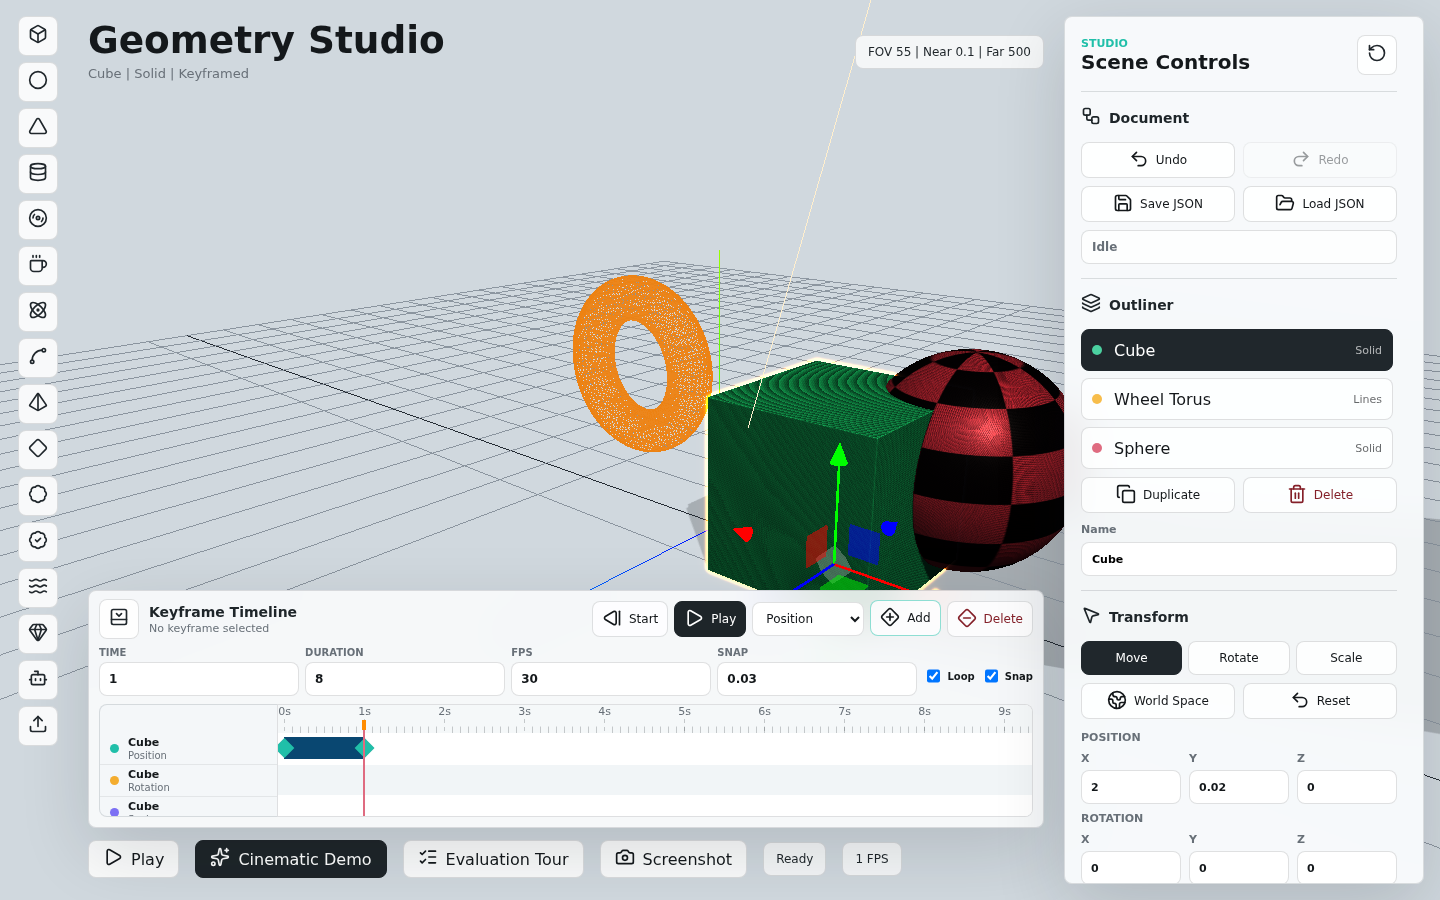
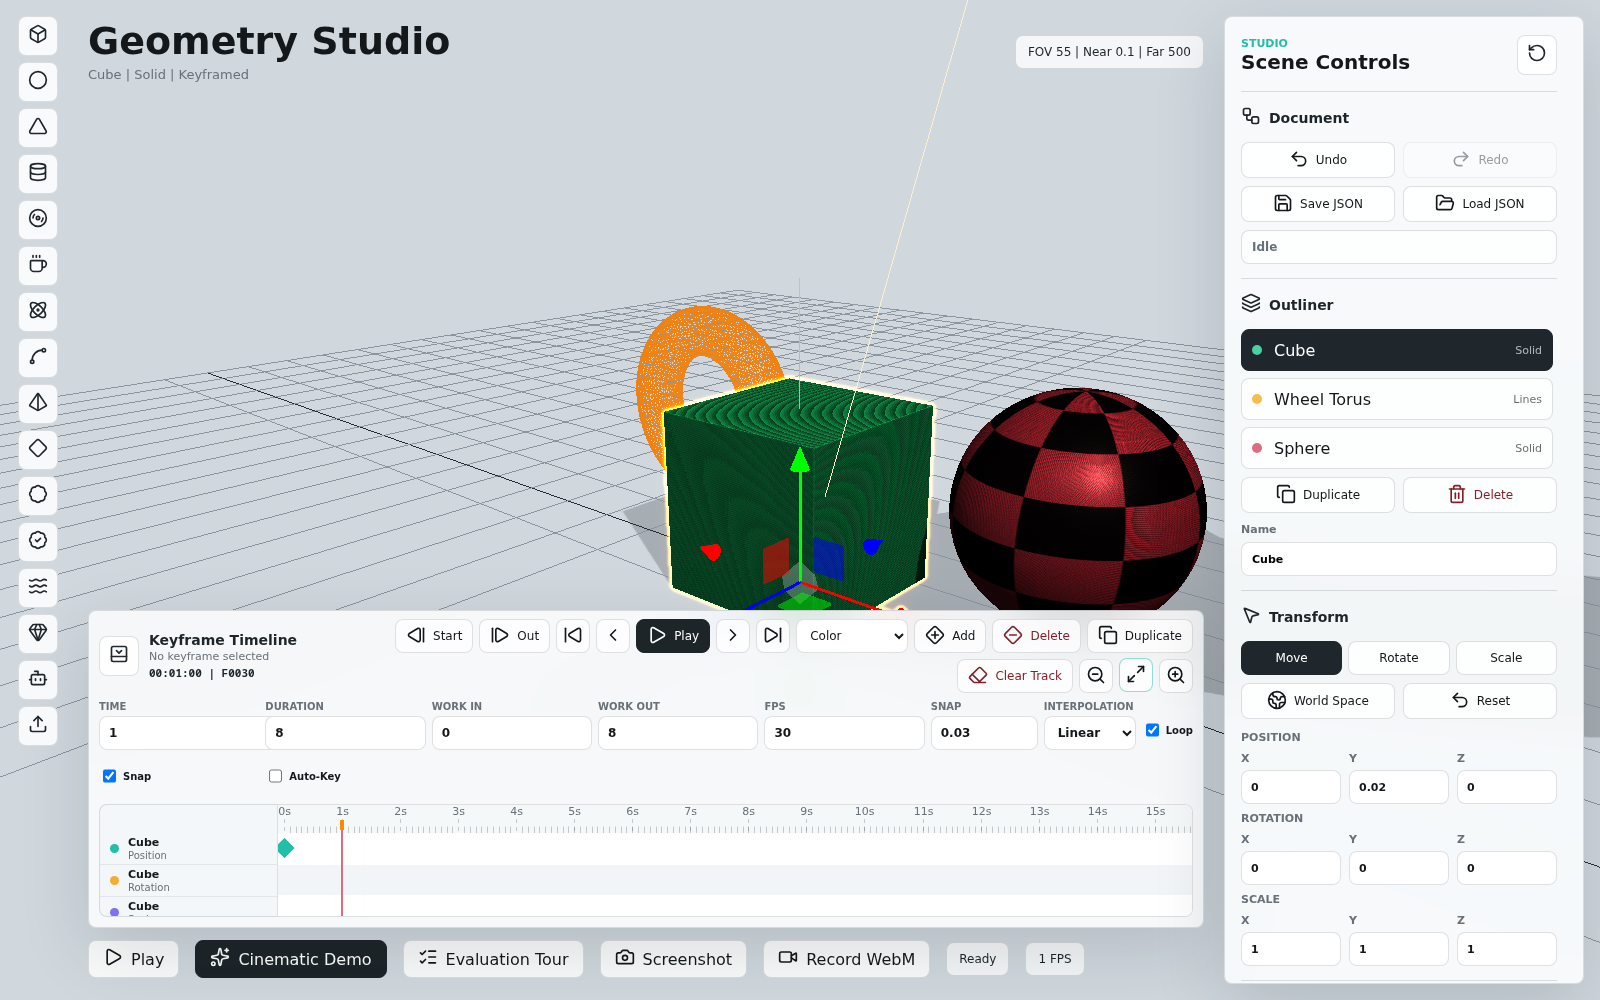
Add frame navigation timeline controls

diff --git a/Source/src/ui/timelinePanel.ts b/Source/src/ui/timelinePanel.ts
@@ -17,6 +17,7 @@ export interface KeyframeTimelineCallbacks {
   onDuplicateKeyframes(keyframeIds: string[]): void;
   onClearTrack(kind: TimelineTrackKind): void;
   onStepKeyframe(direction: -1 | 1): void;
+  onStepFrame(direction: -1 | 1): void;
   onSetInterpolation(keyframeIds: string[], interpolation: TimelineInterpolation): void;
   onDragStarted(): void;
   onKeyframeMoved(keyframeId: string, time: number): void;
@@ -135,7 +136,8 @@ export class KeyframeTimelinePanel {
   private readonly loopInput = query<HTMLInputElement>("#timeline-loop");
   private readonly snapStepInput = query<HTMLInputElement>("#timeline-snap-step");
   private readonly interpolationSelect = query<HTMLSelectElement>("#timeline-interpolation");
-  private readonly selectionLabel = query<HTMLDivElement>("#timeline-selection");
+  private readonly selectionLabel = query<HTMLSpanElement>("#timeline-selection");
+  private readonly timecodeLabel = query<HTMLSpanElement>("#timeline-timecode");
   private selectedKeyframeIds = new Set<string>();
   private updating = false;
 
@@ -178,6 +180,7 @@ export class KeyframeTimelinePanel {
     this.playButton.innerHTML = `<span data-icon="${playing ? "Pause" : "Play"}"></span><span>${playing ? "Pause" : "Play"}</span>`;
     hydrateIcons(this.playButton);
     this.timeInput.value = formatNumber(timelineDocument.currentTime);
+    this.timecodeLabel.textContent = formatTimecode(timelineDocument.currentTime, timelineDocument.fps);
     this.durationInput.value = formatNumber(timelineDocument.duration);
     this.workStartInput.value = formatNumber(timelineDocument.workStart);
     this.workEndInput.value = formatNumber(timelineDocument.workEnd);
@@ -214,6 +217,7 @@ export class KeyframeTimelinePanel {
     this.playButton.innerHTML = `<span data-icon="${playing ? "Pause" : "Play"}"></span><span>${playing ? "Pause" : "Play"}</span>`;
     hydrateIcons(this.playButton);
     this.timeInput.value = formatNumber(timelineDocument.currentTime);
+    this.timecodeLabel.textContent = formatTimecode(timelineDocument.currentTime, timelineDocument.fps);
     this.timeline.setTime(timelineDocument.currentTime);
     this.updating = false;
   }
@@ -234,12 +238,15 @@ export class KeyframeTimelinePanel {
     query<HTMLButtonElement>("#timeline-clear-track").addEventListener("click", () => {
       this.callbacks.onClearTrack(this.selectedTrackKind());
     });
+    query<HTMLButtonElement>("#timeline-prev-frame").addEventListener("click", () => this.callbacks.onStepFrame(-1));
+    query<HTMLButtonElement>("#timeline-next-frame").addEventListener("click", () => this.callbacks.onStepFrame(1));
     query<HTMLButtonElement>("#timeline-prev-keyframe").addEventListener("click", () => this.callbacks.onStepKeyframe(-1));
     query<HTMLButtonElement>("#timeline-next-keyframe").addEventListener("click", () => this.callbacks.onStepKeyframe(1));
     query<HTMLButtonElement>("#timeline-zoom-out").addEventListener("click", () => this.timeline.zoomOut(0.25));
     query<HTMLButtonElement>("#timeline-zoom-in").addEventListener("click", () => this.timeline.zoomIn(0.25));
     query<HTMLButtonElement>("#timeline-zoom-fit").addEventListener("click", () => this.fitTimeline());
     query<HTMLButtonElement>("#timeline-start").addEventListener("click", () => this.callbacks.onTimeChanged(Number(this.workStartInput.value)));
+    query<HTMLButtonElement>("#timeline-end").addEventListener("click", () => this.callbacks.onTimeChanged(Number(this.workEndInput.value)));
     this.playButton.addEventListener("click", () => this.callbacks.onTogglePlayback());
     this.timeInput.addEventListener("change", () => this.callbacks.onTimeChanged(Number(this.timeInput.value)));
     this.durationInput.addEventListener("change", () => this.callbacks.onSettingsChanged({ duration: Number(this.durationInput.value) }));
@@ -506,4 +513,18 @@ function isCameraTrack(kind: TimelineTrackKind): kind is "cameraPosition" | "cam
 
 function isLightTrack(kind: TimelineTrackKind): boolean {
   return LIGHT_TRACKS.includes(kind);
+}
+
+function formatTimecode(time: number, fps: number): string {
+  const safeFps = Math.max(1, Math.round(fps));
+  const absoluteFrame = Math.max(0, Math.round(time * safeFps));
+  const totalSeconds = Math.floor(absoluteFrame / safeFps);
+  const minutes = Math.floor(totalSeconds / 60);
+  const seconds = totalSeconds % 60;
+  const frame = absoluteFrame % safeFps;
+  return `${pad2(minutes)}:${pad2(seconds)}:${pad2(frame)} | F${String(absoluteFrame).padStart(4, "0")}`;
+}
+
+function pad2(value: number): string {
+  return String(value).padStart(2, "0");
 }

diff --git a/Source/tests/studio.spec.ts b/Source/tests/studio.spec.ts
@@ -11,6 +11,14 @@ test("renders the studio and core controls", async ({ page }) => {
   await expect(page.getByRole("button", { name: "Cube", exact: true })).toBeVisible();
   await expect(page.getByRole("button", { name: "Render mode" })).toBeVisible();
   await expect(page.getByRole("button", { name: "Record WebM" })).toBeVisible();
+  await expect(page.locator("#timeline-timecode")).toContainText("F0000");
+  await expect(page.locator("#timeline-prev-frame")).toBeVisible();
+  await expect(page.locator("#timeline-next-frame")).toBeVisible();
+  await page.locator("#timeline-next-frame").click();
+  await expect(page.locator("#timeline-timecode")).toContainText("F0001");
+  expect(Number(await page.locator("#timeline-current-time").inputValue())).toBeGreaterThan(0);
+  await page.locator("#timeline-prev-frame").click();
+  await expect(page.locator("#timeline-timecode")).toContainText("F0000");
 
   const canvas = page.locator("canvas").first();
   await expect(canvas).toBeVisible();

diff --git a/Source/src/styles.css b/Source/src/styles.css
@@ -240,6 +240,13 @@ label {
   white-space: nowrap;
 }
 
+.timeline-title .timeline-timecode {
+  color: var(--charcoal);
+  font-family: ui-monospace, SFMono-Regular, Menlo, Consolas, monospace;
+  font-size: 11px;
+  font-weight: 800;
+}
+
 .timeline-toolbar {
   display: flex;
   flex-wrap: wrap;

diff --git a/Source/src/main.ts b/Source/src/main.ts
@@ -138,6 +138,7 @@ function boot(root: HTMLDivElement): void {
     onDuplicateKeyframes: duplicateTimelineKeyframes,
     onClearTrack: clearTimelineTrack,
     onStepKeyframe: stepTimelineKeyframe,
+    onStepFrame: stepTimelineFrame,
     onSetInterpolation: setTimelineInterpolation,
     onDragStarted: beginTimelineDrag,
     onKeyframeMoved: moveTimelineKeyframe,
@@ -1628,6 +1629,11 @@ function boot(root: HTMLDivElement): void {
       return;
     }
     setTimelineTime(target);
+  }
+
+  function stepTimelineFrame(direction: -1 | 1): void {
+    const step = 1 / Math.max(sceneTimeline.fps, 1);
+    setTimelineTime(sceneTimeline.currentTime + direction * step);
   }
 
   function beginTimelineDrag(): void {

diff --git a/Release/index.html b/Release/index.html
@@ -8,8 +8,8 @@
       content="Geometry Studio - an interactive 3D computer graphics scene editor."
     />
     <title>Geometry Studio</title>
-    <script type="module" crossorigin src="./assets/index-8fzzwILf.js"></script>
-    <link rel="stylesheet" crossorigin href="./assets/index-DR2fH9zt.css">
+    <script type="module" crossorigin src="./assets/index-CuK1ynIs.js"></script>
+    <link rel="stylesheet" crossorigin href="./assets/index-BPl0TN5K.css">
   </head>
   <body>
     <div id="app"></div>

diff --git a/Source/src/ui/template.ts b/Source/src/ui/template.ts
@@ -40,12 +40,16 @@ export function studioTemplate(): string {
             <div class="timeline-title">
               <strong>Keyframe Timeline</strong>
               <span id="timeline-selection">No keyframe selected</span>
+              <span class="timeline-timecode" id="timeline-timecode">00:00:00 | F0000</span>
             </div>
             <div class="timeline-toolbar">
               <button class="mini-button" id="timeline-start" type="button"><span data-icon="StepBack"></span><span>Start</span></button>
+              <button class="mini-button" id="timeline-end" type="button"><span data-icon="StepForward"></span><span>Out</span></button>
+              <button class="mini-button icon-mini" id="timeline-prev-frame" type="button" aria-label="Previous frame" title="Previous frame"><span data-icon="SkipBack"></span></button>
               <button class="mini-button icon-mini" id="timeline-prev-keyframe" type="button" aria-label="Previous keyframe" title="Previous keyframe"><span data-icon="ChevronLeft"></span></button>
               <button class="mini-button strong-mini" id="timeline-play-toggle" type="button"><span data-icon="Play"></span><span>Play</span></button>
               <button class="mini-button icon-mini" id="timeline-next-keyframe" type="button" aria-label="Next keyframe" title="Next keyframe"><span data-icon="ChevronRight"></span></button>
+              <button class="mini-button icon-mini" id="timeline-next-frame" type="button" aria-label="Next frame" title="Next frame"><span data-icon="SkipForward"></span></button>
               <select id="timeline-track-kind" aria-label="Keyframe track">
                 <optgroup label="Object">
                   <option value="position">Position</option>

diff --git a/Release/assets/index-BPl0TN5K.css b/Release/assets/index-BPl0TN5K.css
@@ -1,0 +1,1 @@
+:root{--lightningcss-light:initial;--lightningcss-dark: ;color-scheme:light;color:#14181b;font-synthesis:none;text-rendering:optimizelegibility;-webkit-font-smoothing:antialiased;--ink:#14181b;--muted:#687078;--panel:#fafcfdeb;--panel-strong:#fff;--line:#1a232a24;--teal:#20bfa9;--amber:#f4ad2f;--rose:#df6b80;--violet:#7c70f4;--charcoal:#1e2529;background:#e8ecef;font-family:Inter,ui-sans-serif,system-ui,-apple-system,BlinkMacSystemFont,Segoe UI,sans-serif}*{box-sizing:border-box;scrollbar-width:thin;scrollbar-color:#1f282e57 transparent}::-webkit-scrollbar{width:7px;height:7px}::-webkit-scrollbar-track{background:0 0}::-webkit-scrollbar-thumb{background:#1f282e47;border-radius:999px}html,body,#app{width:100%;height:100%;margin:0;overflow:hidden}button,input,select{font:inherit}button,label{-webkit-tap-highlight-color:transparent}.studio-shell{background:#e8ecef;width:100%;height:100%;position:relative}.viewport{position:absolute;inset:0;overflow:hidden}#scene-canvas{width:100%;height:100%;display:block}.viewport-top,.viewport-bottom{z-index:4;pointer-events:none;justify-content:space-between;align-items:center;gap:16px;display:flex;position:absolute;left:88px;right:396px}.viewport-top{top:22px}.viewport-bottom{justify-content:flex-start;bottom:22px}.viewport-top h1{letter-spacing:0;margin:0;font-size:clamp(24px,2.6vw,38px);line-height:1}.viewport-top p{color:var(--muted);margin:7px 0 0;font-size:13px}.view-chip,.fps,.status-line{border:1px solid var(--line);min-height:34px;color:var(--charcoal);-webkit-backdrop-filter:blur(18px);backdrop-filter:blur(18px);background:#ffffffc2;border-radius:8px;align-items:center;padding:0 12px;font-size:12px;display:inline-flex}.timeline-btn,.wide-button,.mini-button,.icon-command,.tool-button,.segment,.outliner-item,.texture-swatch,.section-button{border:1px solid var(--line);color:var(--ink);cursor:pointer;background:#fffc;border-radius:8px;transition:background .16s,border-color .16s,color .16s,transform .16s}.timeline-btn:hover,.wide-button:hover,.mini-button:hover,.icon-command:hover,.tool-button:hover,.segment:hover,.outliner-item:hover,.texture-swatch:hover{border-color:#20bfa980;transform:translateY(-1px)}.timeline-btn{pointer-events:auto;-webkit-backdrop-filter:blur(16px);backdrop-filter:blur(16px);background:#ffffffe0;align-items:center;gap:8px;min-height:38px;padding:0 14px;display:inline-flex}.timeline-btn.strong{background:var(--charcoal);color:#fff;border-color:var(--charcoal)}.keyframe-dock{z-index:5;border:1px solid var(--line);-webkit-backdrop-filter:blur(18px);backdrop-filter:blur(18px);background:#fafcfde0;border-radius:8px;grid-template-rows:auto auto 1fr;gap:8px;height:318px;display:grid;position:absolute;bottom:72px;left:88px;right:396px;overflow:hidden;box-shadow:0 22px 70px #10181f24}.keyframe-dock.collapsed{height:50px}.keyframe-dock.collapsed .timeline-settings,.keyframe-dock.collapsed .timeline-body{display:none}.timeline-header{grid-template-columns:40px minmax(150px,1fr) minmax(0,auto);align-items:center;gap:10px;min-height:48px;padding:8px 10px 0;display:grid}.timeline-title{gap:2px;min-width:0;display:grid}.timeline-title strong{color:var(--charcoal);text-overflow:ellipsis;white-space:nowrap;font-size:14px;overflow:hidden}.timeline-title span{color:var(--muted);text-overflow:ellipsis;white-space:nowrap;font-size:11px;overflow:hidden}.timeline-title .timeline-timecode{color:var(--charcoal);font-family:ui-monospace,SFMono-Regular,Menlo,Consolas,monospace;font-size:11px;font-weight:800}.timeline-toolbar{flex-wrap:wrap;justify-content:end;align-items:center;gap:6px;min-width:0;display:flex}.timeline-settings{justify-content:end;align-items:center;gap:6px;min-width:0;display:grid}.timeline-toolbar select,.timeline-settings input,.timeline-settings select{border:1px solid var(--line);background:var(--panel-strong);min-height:34px;color:var(--ink);border-radius:8px;padding:0 9px;font-size:12px}.timeline-toolbar select{width:112px}.timeline-toolbar .mini-button{min-height:34px;padding:0 10px}.mini-button.icon-mini{width:34px;padding:0}.mini-button.strong-mini{background:var(--charcoal);color:#fff;border-color:var(--charcoal)}.mini-button.danger{color:#842029}.timeline-settings{grid-template-columns:repeat(5,minmax(82px,1fr)) repeat(3,auto);justify-content:stretch;padding:0 10px}.timeline-settings label{min-width:0;color:var(--muted);text-transform:uppercase;gap:4px;font-size:10px;font-weight:800;display:grid}.timeline-settings .toggle-line{text-transform:none;align-self:end;min-height:34px}.timeline-body{grid-template-columns:178px minmax(0,1fr);min-height:0;padding:0 10px 10px;display:grid}.timeline-track-labels{border:1px solid var(--line);background:#f4f7f9e0;border-right:0;border-radius:8px 0 0 8px;min-height:0;padding-top:28px;overflow:hidden auto}.timeline-track-label{text-align:left;background:0 0;border:0;border-bottom:1px solid #1a232a14;grid-template-columns:10px minmax(0,1fr);align-items:center;gap:8px;width:100%;height:32px;padding:0 10px;display:grid}.timeline-track-label span:last-child{gap:1px;min-width:0;display:grid}.timeline-track-label strong,.timeline-track-label small{text-overflow:ellipsis;white-space:nowrap;overflow:hidden}.timeline-track-label strong{color:var(--ink);font-size:11px}.timeline-track-label small{color:var(--muted);font-size:10px}.track-swatch{border-radius:99px;width:9px;height:9px}.timeline-empty{color:var(--muted);padding:12px;font-size:12px}.timeline-canvas{border:1px solid var(--line);background:#ffffffc7;border-radius:0 8px 8px 0;min-width:0;min-height:0;overflow:hidden}.timeline-canvas>div,.timeline-canvas canvas{width:100%!important}.tool-rail{z-index:5;overscroll-behavior:contain;scrollbar-gutter:stable;grid-auto-rows:40px;align-content:start;gap:6px;width:50px;padding-right:4px;display:grid;position:absolute;top:16px;bottom:16px;left:18px;overflow:hidden auto}.tool-button,.icon-command{color:#20272c;-webkit-backdrop-filter:blur(18px);backdrop-filter:blur(18px);background:#ffffffdb;place-items:center;width:40px;height:40px;display:grid}.tool-button:active,.timeline-btn:active,.segment:active,.wide-button:active{transform:translateY(0)}.import-button input,.upload-texture input,.file-action input{display:none}.drop-overlay{z-index:20;color:var(--charcoal);pointer-events:none;-webkit-backdrop-filter:blur(18px);backdrop-filter:blur(18px);background:#fafcfdd1;border:2px dashed #20bfa9b8;border-radius:8px;place-items:center;gap:12px;font-size:18px;display:none;position:absolute;inset:18px 396px 18px 84px}.drop-overlay.active{display:grid}.inspector{z-index:6;border:1px solid var(--line);background:var(--panel);-webkit-backdrop-filter:blur(18px);backdrop-filter:blur(18px);overscroll-behavior:contain;scrollbar-gutter:stable;border-radius:8px;width:360px;padding:18px 16px;position:absolute;top:16px;bottom:16px;right:16px;overflow:auto;box-shadow:0 22px 70px #10181f29}.panel-header{justify-content:space-between;align-items:center;gap:12px;margin-bottom:16px;display:flex}.panel-header h2,.section-title h3{letter-spacing:0;margin:0}.panel-header h2{font-size:20px}.eyebrow{color:var(--teal);letter-spacing:0;text-transform:uppercase;font-size:11px;font-weight:800}.panel-section{border-top:1px solid var(--line);padding:14px 0}.section-title{width:100%;color:var(--charcoal);align-items:center;gap:8px;margin-bottom:12px;display:flex}.section-title h3{font-size:14px}.section-button{text-align:left;background:0 0;border:0;padding:0}.outliner{overscroll-behavior:contain;gap:7px;max-height:160px;padding-right:4px;display:grid;overflow:auto}.outliner-item{text-align:left;grid-template-columns:12px 1fr auto;align-items:center;gap:10px;min-height:42px;padding:0 10px;display:grid}.outliner-item.active{color:#fff;background:#20272c;border-color:#20272c}.object-dot{border-radius:99px;width:10px;height:10px}.object-name{text-overflow:ellipsis;white-space:nowrap;overflow:hidden}.object-mode{color:inherit;opacity:.65;font-size:11px}.segmented{grid-template-columns:repeat(3,minmax(0,1fr));gap:6px;display:grid}.segmented.wrap{grid-template-columns:repeat(2,minmax(0,1fr))}.segment{min-height:34px;padding:0 8px;font-size:12px}.segment.active,.texture-swatch.active{color:#fff;background:#20272c;border-color:#20272c}.compact-row,.camera-presets,.doc-actions,.material-presets{grid-template-columns:1fr 1fr;gap:8px;margin-top:8px;display:grid}.camera-presets,.material-presets{grid-template-columns:repeat(4,minmax(0,1fr))}.wide-button,.mini-button{justify-content:center;align-items:center;gap:7px;min-height:36px;padding:0 9px;font-size:12px;display:inline-flex}.wide-button.danger{color:#842029;width:100%}.wide-button:disabled{cursor:not-allowed;opacity:.42;transform:none}.file-action{cursor:pointer}.load-progress{border:1px solid var(--line);background:#ffffffbd;border-radius:8px;align-items:center;min-height:34px;margin-top:8px;display:flex;position:relative;overflow:hidden}.load-progress span{background:#20bfa92e;width:0%;transition:width .18s;position:absolute;inset:0 auto 0 0}.load-progress strong{color:var(--muted);text-overflow:ellipsis;white-space:nowrap;padding:0 10px;font-size:12px;position:relative;overflow:hidden}.rename-line{color:var(--muted);gap:6px;margin-top:10px;font-size:11px;font-weight:800;display:grid}.rename-line input{border:1px solid var(--line);border-radius:8px;min-height:34px;padding:0 10px}.matrix-grid,.form-grid{grid-template-columns:repeat(3,minmax(0,1fr));gap:8px;margin-top:12px;display:grid}.form-grid{grid-template-columns:1fr 1fr}.grid-label{color:var(--muted);letter-spacing:0;text-transform:uppercase;grid-column:1/-1;font-size:11px;font-weight:800}.axis-input,.form-grid label{min-width:0;color:var(--muted);gap:5px;font-size:11px;font-weight:700;display:grid}.axis-input.wide-axis{grid-column:span 1}.axis-input input,.form-grid input,.form-grid select{border:1px solid var(--line);background:var(--panel-strong);width:100%;min-height:34px;color:var(--ink);border-radius:8px;padding:0 9px}.form-grid input[type=color]{padding:4px}.form-grid input[type=range]{padding:0}.form-grid .toggle-line input[type=checkbox]{width:auto;min-height:0}.toggle-line{align-items:center;gap:8px;min-height:34px;color:var(--ink)!important;display:flex!important}.single-toggle{margin-top:8px}.texture-grid{grid-template-columns:repeat(5,minmax(0,1fr));gap:6px;display:grid}.texture-swatch{text-align:center;place-items:center;min-height:38px;padding:0 6px;font-size:11px;display:grid}.telemetry-grid{grid-template-columns:repeat(2,minmax(0,1fr));gap:8px;display:grid}.telemetry-grid div{border:1px solid var(--line);background:#ffffffb8;border-radius:8px;align-content:center;gap:2px;min-height:42px;padding:7px 9px;display:grid}.telemetry-grid span{color:var(--muted);text-transform:uppercase;font-size:10px;font-weight:800}.telemetry-grid strong{font-size:15px}.toast-stack{z-index:12;pointer-events:none;gap:7px;width:min(380px,100vw - 124px);display:grid;position:absolute;bottom:78px;left:88px}.toast{color:#fff;background:#20272ceb;border:1px solid #fff6;border-radius:8px;padding:10px 12px;font-size:14px;line-height:1.35;animation:.18s ease-out toast-in;box-shadow:0 18px 45px #0c101433}.toast.bad{background:#842029f0}.toast.good{border-left:4px solid var(--teal)}.toast.leaving{opacity:0;transform:translateY(8px)}.hidden{display:none}.fallback{text-align:center;place-items:center;min-height:100%;padding:32px;display:grid}.fallback h1{margin:0 0 10px}@keyframes toast-in{0%{opacity:0;transform:translateY(8px)}to{opacity:1;transform:translateY(0)}}@media (width<=880px){.drop-overlay{inset:10px 10px calc(46vh + 72px)}.tool-rail{scrollbar-gutter:auto;grid-auto-rows:42px;grid-auto-columns:42px;grid-auto-flow:column;width:auto;height:42px;padding:0;inset:auto 10px 10px;overflow:auto hidden}.tool-button{width:42px;height:42px}.inspector{width:auto;max-height:46vh;padding:14px;inset:auto 10px 62px}.viewport-top{top:12px;left:12px;right:12px}.viewport-top h1{font-size:24px}.view-chip{display:none}.viewport-bottom{flex-wrap:wrap;bottom:calc(46vh + 80px);left:12px;right:12px}.keyframe-dock{height:min(260px,32vh);bottom:calc(46vh + 132px);left:10px;right:10px}.timeline-header{grid-template-columns:40px minmax(120px,1fr)}.timeline-toolbar{grid-column:1/-1;justify-content:stretch}.timeline-toolbar .mini-button,.timeline-toolbar select{flex:92px}.timeline-toolbar .icon-mini{flex:0 0 34px}.timeline-settings{grid-template-columns:repeat(4,minmax(0,1fr))}.timeline-body{grid-template-columns:132px minmax(0,1fr)}.status-line{max-width:100%}.toast-stack{width:calc(100vw - 24px);bottom:calc(46vh + 126px);left:12px}}@media (width<=520px){.form-grid,.compact-row,.camera-presets,.doc-actions,.material-presets{grid-template-columns:1fr 1fr}.matrix-grid{grid-template-columns:repeat(3,minmax(78px,1fr));overflow-x:auto}.texture-grid{grid-template-columns:repeat(3,minmax(0,1fr))}}

diff --git a/docs/timeline-frame-navigation.md b/docs/timeline-frame-navigation.md
@@ -1,0 +1,54 @@
+# Timeline Frame Navigation
+
+## Status
+
+Frame navigation is implemented as an editing ergonomics upgrade on top of
+schema v8. It does not change the saved timeline document because frame stepping
+is derived from the existing `fps`, `currentTime`, `workStart`, and `workEnd`
+fields.
+
+## User-Facing Behavior
+
+- `Start` jumps to Work In.
+- `Out` jumps to Work Out.
+- Previous Frame subtracts `1 / fps` seconds from the current playhead time.
+- Next Frame adds `1 / fps` seconds to the current playhead time.
+- Time is clamped to the full timeline duration.
+- The timecode label shows both SMPTE-style time and absolute frame number:
+  `MM:SS:FF | F0000`.
+
+This mirrors the practical editing pattern used in video and motion graphics
+tools: rough navigation by work area, precise navigation by frame, and keyframe
+navigation for authored animation points.
+
+## Implementation Notes
+
+The UI lives in `ui/timelinePanel.ts` and delegates frame stepping to `main.ts`
+through `onStepFrame(direction)`. Keeping the step calculation in `main.ts`
+avoids duplicating ownership of the timeline document in the panel.
+
+The timecode formatter uses:
+
+```ts
+absoluteFrame = round(currentTime * fps)
+frameStep = 1 / fps
+```
+
+The numeric time field still displays compact seconds for quick editing. The
+timecode label is the frame-accurate readout.
+
+## Testing
+
+The Playwright smoke test verifies:
+
+- The timecode starts at frame zero.
+- Previous/next frame buttons are visible.
+- Next Frame advances the timeline.
+- Previous Frame returns the playhead to frame zero.
+
+Manual check:
+
+1. Set FPS to `24`, `30`, or `60`.
+2. Press Next Frame several times.
+3. Confirm the absolute frame counter increments by one.
+4. Press Start and Out to jump between Work In and Work Out.

diff --git a/docs/README.md b/docs/README.md
@@ -32,6 +32,8 @@ PDF.
   texture Repeat, Offset, and Rotation tracks.
 - [Timeline Work Area](timeline-work-area.md) documents schema v8 Work In/Out
   playback range behavior.
+- [Timeline Frame Navigation](timeline-frame-navigation.md) documents
+  frame-step controls, Work Out jump, and timecode display.
 - [Preview Export](preview-export.md) documents WebM work-area recording.
 
 ## Current Recommendation

diff --git a/docs/timeline-work-area.md b/docs/timeline-work-area.md
@@ -8,6 +8,7 @@ After Effects and Premiere style work area around the existing timeline:
 - `Work In` defines where playback starts.
 - `Work Out` defines where playback loops or stops.
 - The Start button jumps to `Work In`.
+- The Out button jumps to `Work Out`.
 - Loop playback repeats over the work area instead of the full duration.
 
 ## Data Model
@@ -30,6 +31,7 @@ back to the full timeline.
 
 - Manual scrubbing can still visit the full timeline duration.
 - Pressing Start moves the playhead to `workStart`.
+- Pressing Out moves the playhead to `workEnd`.
 - Pressing Play outside the work area starts from `workStart`.
 - Loop mode wraps from `workEnd` back to `workStart`.
 - Non-loop mode stops playback at `workEnd`.